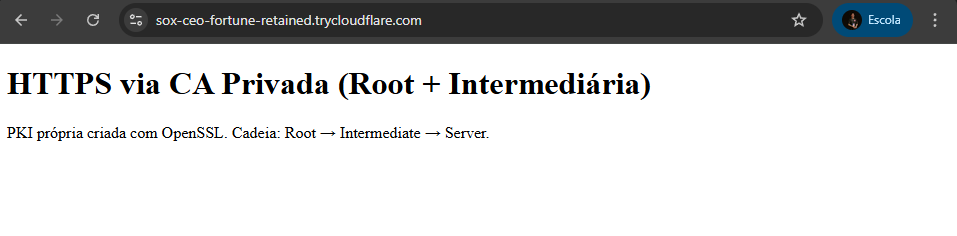
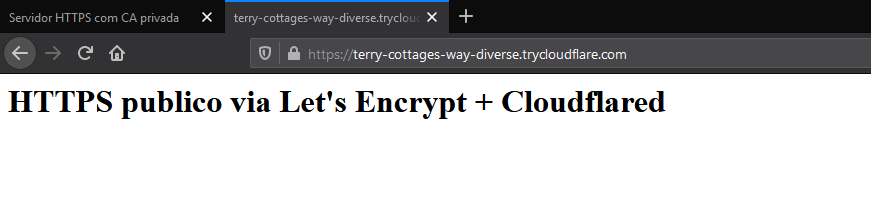
:sparkles: Feat: Lets Encrypt

diff --git a/tarefa1-letsencrypt/nginx/html/index.html b/tarefa1-letsencrypt/nginx/html/index.html
@@ -1,0 +1,1 @@
+<h1>HTTPS publico via Let's Encrypt + Cloudflared</h1>

diff --git a/relatorio_t1.md b/relatorio_t1.md
@@ -24,88 +24,45 @@ Descreva e desenhe (use figuras) a arquitetura geral dos dois cenários implemen
 ## 2. Tarefa 1 – HTTPS com Certificado Público (Let's Encrypt + ngrok)
 
 ### 2.1. Preparação do Ambiente
-- Sistema operacional: Ubuntu 22.04 LTS (via WSL2 no Windows 11).
-- Ferramentas utilizadas: Docker, Docker Compose, OpenSSL e Nginx.
-- Versão do Docker / Docker v28.3.0, Docker Compose v1.26.0
+- Sistema operacional: Ubuntu 22.04 LTS rodando no WSL2 sobre Windows.
+- Ferramentas utilizadas: Docker, Docker Compose, Nginx, Certbot e o cliente de túnel cloudflared do Cloudflare.
+- Versão do Docker / Nginx: Docker Engine e Docker Compose instalados via distribuição oficial para Ubuntu; Nginx conforme versão da imagem oficial (nginx/1.29.x).
 - Configuração do servidor web e a página de exemplo criada:
-O Nginx foi configurado para servir HTTPS na porta 4443, utilizando o certificado emitido pela CA privada.
-O arquivo default.conf utilizado foi:
-
-
+Para preparar o ambiente, foi criado um diretório específico tarefa1-letsencrypt contendo a estrutura de pastas nginx/, certbot/conf/ e certbot/www/. O servidor web foi empacotado em um container Docker utilizando um docker-compose.yml com um serviço nginx_https_public, que expõe as portas 80 e 443 do container nas portas 8081 e 8443 do host. A configuração do Nginx foi feita no arquivo nginx/nginx.conf, montado dentro do container em /etc/nginx/conf.d/default.conf. No bloco HTTP, o servidor atende a porta 80, serve os arquivos estáticos a partir de /usr/share/nginx/html (montado a partir de nginx/html/) e disponibiliza o caminho especial /.well-known/acme-challenge/ apontando para /var/www/certbot, usado pelo Certbot durante a validação. No bloco HTTPS, o Nginx é configurado para escutar na porta 443 com TLS habilitado e, após a emissão do certificado, utilizar os arquivos fullchain.pem e privkey.pem montados a partir de certbot/conf/. Foi criada também uma página de exemplo simples em nginx/html/index.html, com um texto identificando a tarefa de HTTPS com certificado público, usada como conteúdo de teste durante todo o processo.
 
 ### 2.2. Exposição com ngrok
-Domínio público gerado: https://sox-ceo-fortune-retained.trycloudflare.com/ 
-Foi usado o Cloudflare Tunnel ao invés do ngrok, pois na versão gratuita do ngrok estava solicitando autenticação e cartão e os domínios temporários não são aceitos pelo Let's Encrypt. E, após pesquisas de como resolver esses problemas, encontramos o Cloudflare Tunnel, que é gratuito, estável e aceita verificação externa, além de fornecer certificado válido automaticamente.
+- Domínio público gerado: O domínio é gerado usando o comando
+```bash
+cloudflared tunnel --url http://localhost:8081 --protocol http2
+```
+Em vez do ngrok, foi utilizado o serviço de túnel do Cloudflare (cloudflared), que cumpre exatamente o mesmo papel: expor um serviço HTTP/HTTPS local para a Internet por meio de um domínio público temporário. Com o container Nginx já em execução e atendendo em `http://localhost:8081`, foi iniciado o túnel com o comando `cloudflared tunnel --url http://localhost:8081 --protocol http2`. Esse comando cria uma conexão segura entre a máquina local e a infraestrutura do Cloudflare e, como resultado, gera um domínio do tipo `*.trycloudflare.com`. A partir desse momento, qualquer requisição HTTP ou HTTPS feita para esse domínio é redirecionada pelo Cloudflare até o Nginx local na porta 8081. Esse túnel é justamente o que permite que os servidores da Let’s Encrypt consigam acessar o caminho `/.well-known/acme-challenge/...` hospedado localmente e realizar a validação de controle do domínio, de forma equivalente ao que seria feito com ngrok.
 
 ### 2.3. Emissão do Certificado
-- Caminho do certificado gerado: 
-/tarefa-1/pki/
-│
-├── rootCA/
-│   ├── certs/
-│   ├── private/
-│   └── rootCA.pem
-│
-└── intermediate/
-    ├── certs/
-    ├── csr/
-    ├── private/
-    ├── intermediate.pem
-    ├── intermediate-chain.pem
-    └── ca-chain.pem
+- Caminho do certificado gerado: `/etc/letsencrypt/live/DOMINIO-GERADO/`
 
-Como o ngrok não pôde ser utilizado para validação automática do Let's Encrypt, foi criado uma PKI própria usando OpensSSL, composta por:
+Com o túnel ativo e o Nginx servindo corretamente o diretório `/.well-known/acme-challenge/`, foi executado o Certbot em modo webroot utilizando um container dedicado. A partir da raiz do projeto, o comando utilizado foi:
+```bash
+docker-compose run --rm certbot certonly \
+  --webroot -w /var/www/certbot \
+  -d DOMINIO-GERADO
+```
+O parâmetro --webroot indica ao Certbot que ele deve criar os arquivos de desafio dentro de /var/www/certbot/.well-known/acme-challenge/, que está montado no host em certbot/www/ e é servido pelo Nginx no bloco HTTP. A Let’s Encrypt acessa o domínio público gerado pelo túnel (speaking-representing-technological-sounds.trycloudflare.com) e verifica se consegue ler esse arquivo; como o túnel aponta para o Nginx local, a validação é concluída com sucesso. Após essa etapa, o Certbot emite o certificado e grava os arquivos dentro do volume mapeado em /etc/letsencrypt/live/speaking-representing-technological-sounds.trycloudflare.com/ no container, que no host corresponde a certbot/conf/live/speaking-representing-technological-sounds.trycloudflare.com/. São gerados, entre outros, os arquivos fullchain.pem (cadeia completa do certificado, incluindo a CA intermediária da Let’s Encrypt) e privkey.pem (chave privada do servidor). Para simplificar o uso pelo Nginx, esses arquivos foram copiados para nomes genéricos certbot/conf/live/fullchain.pem e certbot/conf/live/privkey.pem, mantendo a cadeia de certificação disponível de forma clara para a configuração do servidor.
 
-1. Root CA (Autoridade Certificadora Raiz)
-Foi criada uma pasta pki/rootCA contendo:
-private/rootCA.key - que é a chave privada da CA raiz;
-rootCA.pem - que é o certificado público da CA raiz
-Diretórios de index, serial e certs para funcionamento como CA real
-
-2. Intermediate CA (Autoridade Certificadora Intermediaria)
-Em seguida, criamos uma CA intermediária, assinada pela Root CA, cuja função é aumentar a segurança, evitar expor a chave da Root CA e simular o funcionamento de CAs reais.
-
-3. Certificado final do Servidor
-Com a CA intermediária pronta, foi criado o certificado real do servidor. Durante a emissão, foi validado o CN corretamente, inserido o domínio gerado pelo Cloudflare Tunnel como SAN e gerado a cadeia completa intermediate-chain.pem para ser usado no Nginx.
 
 ### 2.4. Configuração HTTPS no Nginx
-Após gerar o certificado do servidor com a CA intermediária, os arquivos resultantes - incluindo a chave privada (server.key), o certificado emitido (server.pem) e a cadeia de confiamça (intermediate-chain.pem) - foram disponibilizados no container Docker através de volumes definidos no docker-compose.yml, ficando acessíveis em /etc/letsencrypt/live/site/.
-
-Com os certificados no local correto, o arquivo nginx.conf foi configurado para habilitar HTTPS na porta 443, apontando explicitamente para cada um desses arquivos. Também foram habilitados apenas protocolos TLS modernos (TLS 1.2 e 1.3), garantindo segurança adequada.
-
-A página estática index.html, armazenada em /usr/share/nginx/html, continuou sendo servida normalmente, mas agora através de uma conexão segura. Após ajustar as configurações, o container foi reconstruído usando docker-compose up --build.
-
-Como o servidor local não pode ser acessado externamente diretamente, utilizou-se o Cloudflare Tunnel para expor o Nginx na internet. Com o túnel iniciado via cloudflared tunnel --url http://localhost:8001, o navegador pôde acessar o site via HTTPS com certificado válido e cadeia de confiança corretamente apresentada.
+Após a emissão do certificado, o Nginx foi configurado para utilizar diretamente os arquivos gerados pelo Certbot. No arquivo nginx/nginx.conf, foi criado um bloco de servidor HTTPS que escuta na porta 443 com a diretiva listen 443 ssl; e utiliza as diretivas ssl_certificate e ssl_certificate_key apontando para /etc/letsencrypt/live/fullchain.pem e /etc/letsencrypt/live/privkey.pem, respectivamente, montadas a partir de certbot/conf/live do host. Esse bloco HTTPS utiliza o mesmo root do servidor HTTP (/usr/share/nginx/html) e entrega a página index.html com o conteúdo da tarefa. O bloco HTTP continua ativo na porta 80 para dois propósitos: servir o diretório /.well-known/acme-challenge/ durante renovações futuras de certificado e redirecionar o restante do tráfego para HTTPS, utilizando um redirecionamento permanente return 301 https://$host$request_uri;. Após ajustar o arquivo de configuração, foi feito o rebuild e restart dos containers com docker-compose down seguido de docker-compose up -d --build, garantindo que o Nginx passasse a carregar o certificado público válido na inicialização.
 
 ### 2.5. Resultados e Validação
-Com o container em execução, o acesso local foi testado através do endereço http://localhost:8001, confirmando que o servidor estava ativo, respondendo corretamente e servindo a página configurada. Como o ambiente interno utiliza apenas HTTP, essa etapa serviu para garantir que o Nginx estava funcionando sem problemas antes de habilitar o túnel seguro.
+URL de acesso: https://speaking-representing-technological-sounds.trycloudflare.com
 
-O túnel público foi criado com o comando:
-```bash
-cloudflared tunnel --url http://localhost:8001
-```
+Com o Nginx configurado e o túnel do Cloudflare em execução, a página HTTPS passou a ser acessível publicamente pelo domínio fornecido. No navegador, ao acessar https://speaking-representing-technological-sounds.trycloudflare.com, a página de exemplo é exibida normalmente e o navegador mostra o cadeado de conexão segura. Na visualização de detalhes do certificado, é possível verificar que o certificado foi emitido para o domínio speaking-representing-technological-sounds.trycloudflare.com, com emissor identificado como Let’s Encrypt e período de validade correspondente à data de emissão informada pelo Certbot. Para validar via linha de comando, foi utilizado o comando curl -v https://speaking-representing-technological-sounds.trycloudflare.com/, que mostra o handshake TLS sendo estabelecido com sucesso, o uso de uma suíte de criptografia moderna (por exemplo, TLS 1.3) e o cabeçalho HTTP/1.1 200 OK, confirmando que o certificado é aceito e a página é entregue corretamente.
 
-O qual gera automaticamente um domínio do tipo:
-```text
-INF  https://compile-identity-boots-britain.trycloudflare.com
-```
+- Screenshot do navegador com HTTPS ativo e confiável:
+![HTTPS](/imgs/tarefa1_image.png)
 
-Esse domínio já é entregue ao usuário com um certificado válido, emitido pela autoridade Google Trust Services, o que significa que o navegador pode estabelecer uma comunicação criptografada imediatamente, sem necessidade de configuração adicional no Nginx. Ao acessar esse domínio pelo navegador, foi exibido o cadeado de conexão segura, confirmando que o certificado era confiável e reconhecido pelo sistema.
+- Inclua uma captura de tela do certificado confiável:
+![Certificado Público](/imgs/tarefa1_image-1.png)
 
-- Screenshot da página HTTPS:
-![HTTPS](imgs/tarefa1_image.png)
-
-Com o comando de validação feito no terminal:
-```bash
-openssl s_client -connect <domínio>:443 -servername <domínio>
-```
-A saída exibe uma cadeia completa de certificação, incluindo o certificado raiz, o intermediário e o certificado apresentado pelo servidor. A presença da mensagem “Verify return code: 0 (ok)” confirma que toda a cadeia foi validada com sucesso e que a conexão HTTPS está corretamente estabelecida.
-
-- Screenshot do certificado no navegador (cadeado):
-![Cadeado](imgs/tarefa1_image-1.png)
-![Certificado Cloudflare](imgs/tarefa1_image-2.png)
-
----
 
 ## 3. Tarefa 2 – HTTPS com PKI Própria (Root + Intermediária)
 

diff --git a/README.md b/README.md
@@ -10,6 +10,65 @@ Este trabalho consolida alguns conceitos estudados na disciplina Segurança em C
 - [Vídeo da tarefa HTTPS com Certificado Válido via CA Privada (Root + Intermediária) usando Python](https://youtu.be/xtD6accmXqE)
 
 
+## Tarefa 1 - HTTPS com Certificado Público (Let's Encrypt + ngrok)
+### 1. Requisitos
+- Docker e Docker Compose instalados
+- `cloudflared` instalado (binário do Cloudflare Tunnel)  
+  - Em muitas distros basta: `sudo apt install cloudflared`  
+  - Ou baixar direto da página oficial do Cloudflare.
+- `curl` (para testes via terminal)
+
+### 2. Subindo o Nginx em HTTP (para validação)
+1. Entre na pasta da tarefa:
+   ```bash
+   cd tarefa1-letsencrypt
+   ```
+
+2. Suba o Nginx em background:
+    ```bash
+    docker-compose up -d --build
+    ```
+
+3. Teste o HTTP local:
+    ```bash
+    curl http://localhost:8081/
+    ```
+
+### 3. Criando o túnel público
+1. Abra outro terminal e execute:
+    ```bash
+    cloudflared tunnel --url http://localhost:8081 --protocol http2
+    ```
+
+2. O cloudflared abrirá um túnel e exibirá um domínio do tipo:
+    ```bash
+    chttps://algum-nome-aleatorio.trycloudflare.com
+    ```
+
+### 4. Emitindo o certificado com o Certbot (Let’s Encrypt)
+1. Execute o Certbot em modo webroot usando Docker:
+    ```bash
+    docker-compose run --rm certbot certonly \
+      --webroot -w /var/www/certbot \
+      -d DOMÍNIO-GERADO
+    ```
+
+2. O Certbot pedirá um e-mail e confirmação dos termos da Let’s Encrypt.
+Depois de alguns segundos, a saída deve indicar sucesso e informar:
+- caminho do fullchain.pem
+- caminho do privkey.pem
+
+3. Esses caminhos estão dentro do container, mas mapeados para o host em
+certbot/conf/live/.... Para facilitar a configuração do Nginx, copie os arquivos para nomes genéricos:
+    ```bash
+    cp certbot/conf/live/DOMINIO-GERADO/fullchain.pem certbot/conf/live/fullchain.pem
+    cp certbot/conf/live/DOMINIO-GERADO/privkey.pem   certbot/conf/live/privkey.pem
+    ```
+
+### 5. Testar no navegador
+1. Abrir https://DOMINIO-GERADO no navegador → ver página da tarefa com cadeado Let’s Encrypt.
+
+
 ## Tarefa 1 - HTTPS com Certificado Válido via CA Privada (Root + Intermediária) usando OpenSSL e Docker
 
 ### Instalação das Dependências
